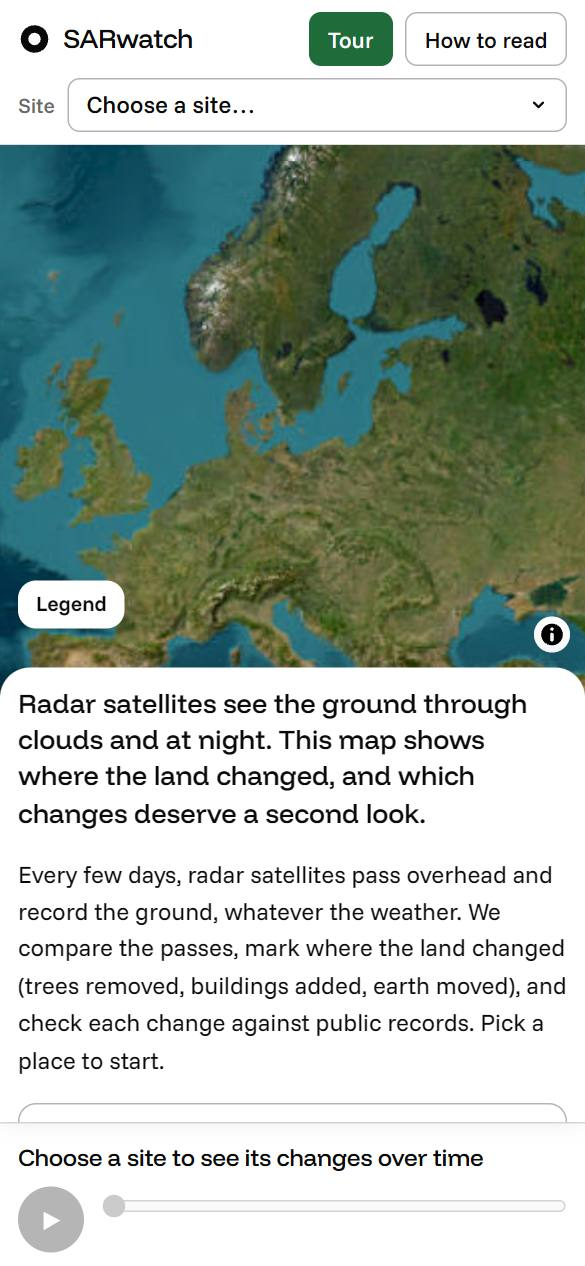
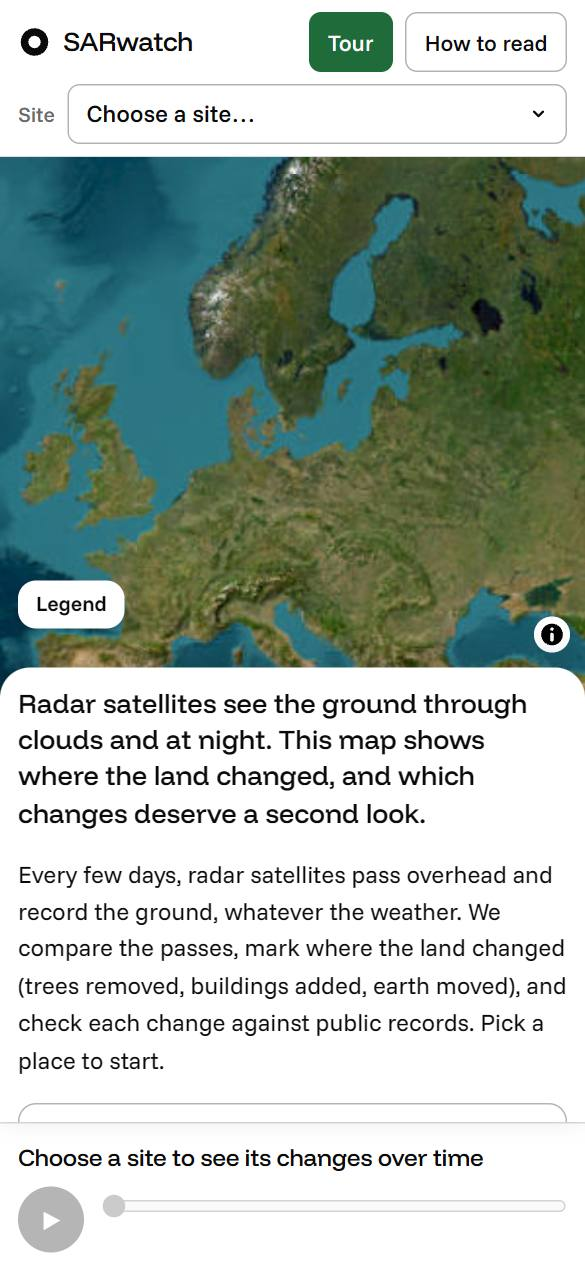
App: phone controls 40px tall for thumbs

diff --git a/app/css/style.css b/app/css/style.css
@@ -451,7 +451,7 @@ button.big { width: 100%; height: 48px; font-size: var(--t-body); }
 
 /* ---------- phone: the panel becomes a bottom sheet under the map ---------- */
 @media (max-width: 760px) {
-  :root { --ctl-h: 36px; }
+  :root { --ctl-h: 40px; } /* thumbs: a step taller than on desktop, still compact over the map */
   .topbar { padding: var(--s-2) var(--s-3); gap: var(--s-2) var(--s-3); }
   .brand { flex: 0 1 auto; }
   .topbar h1 { font-size: 18px; }
